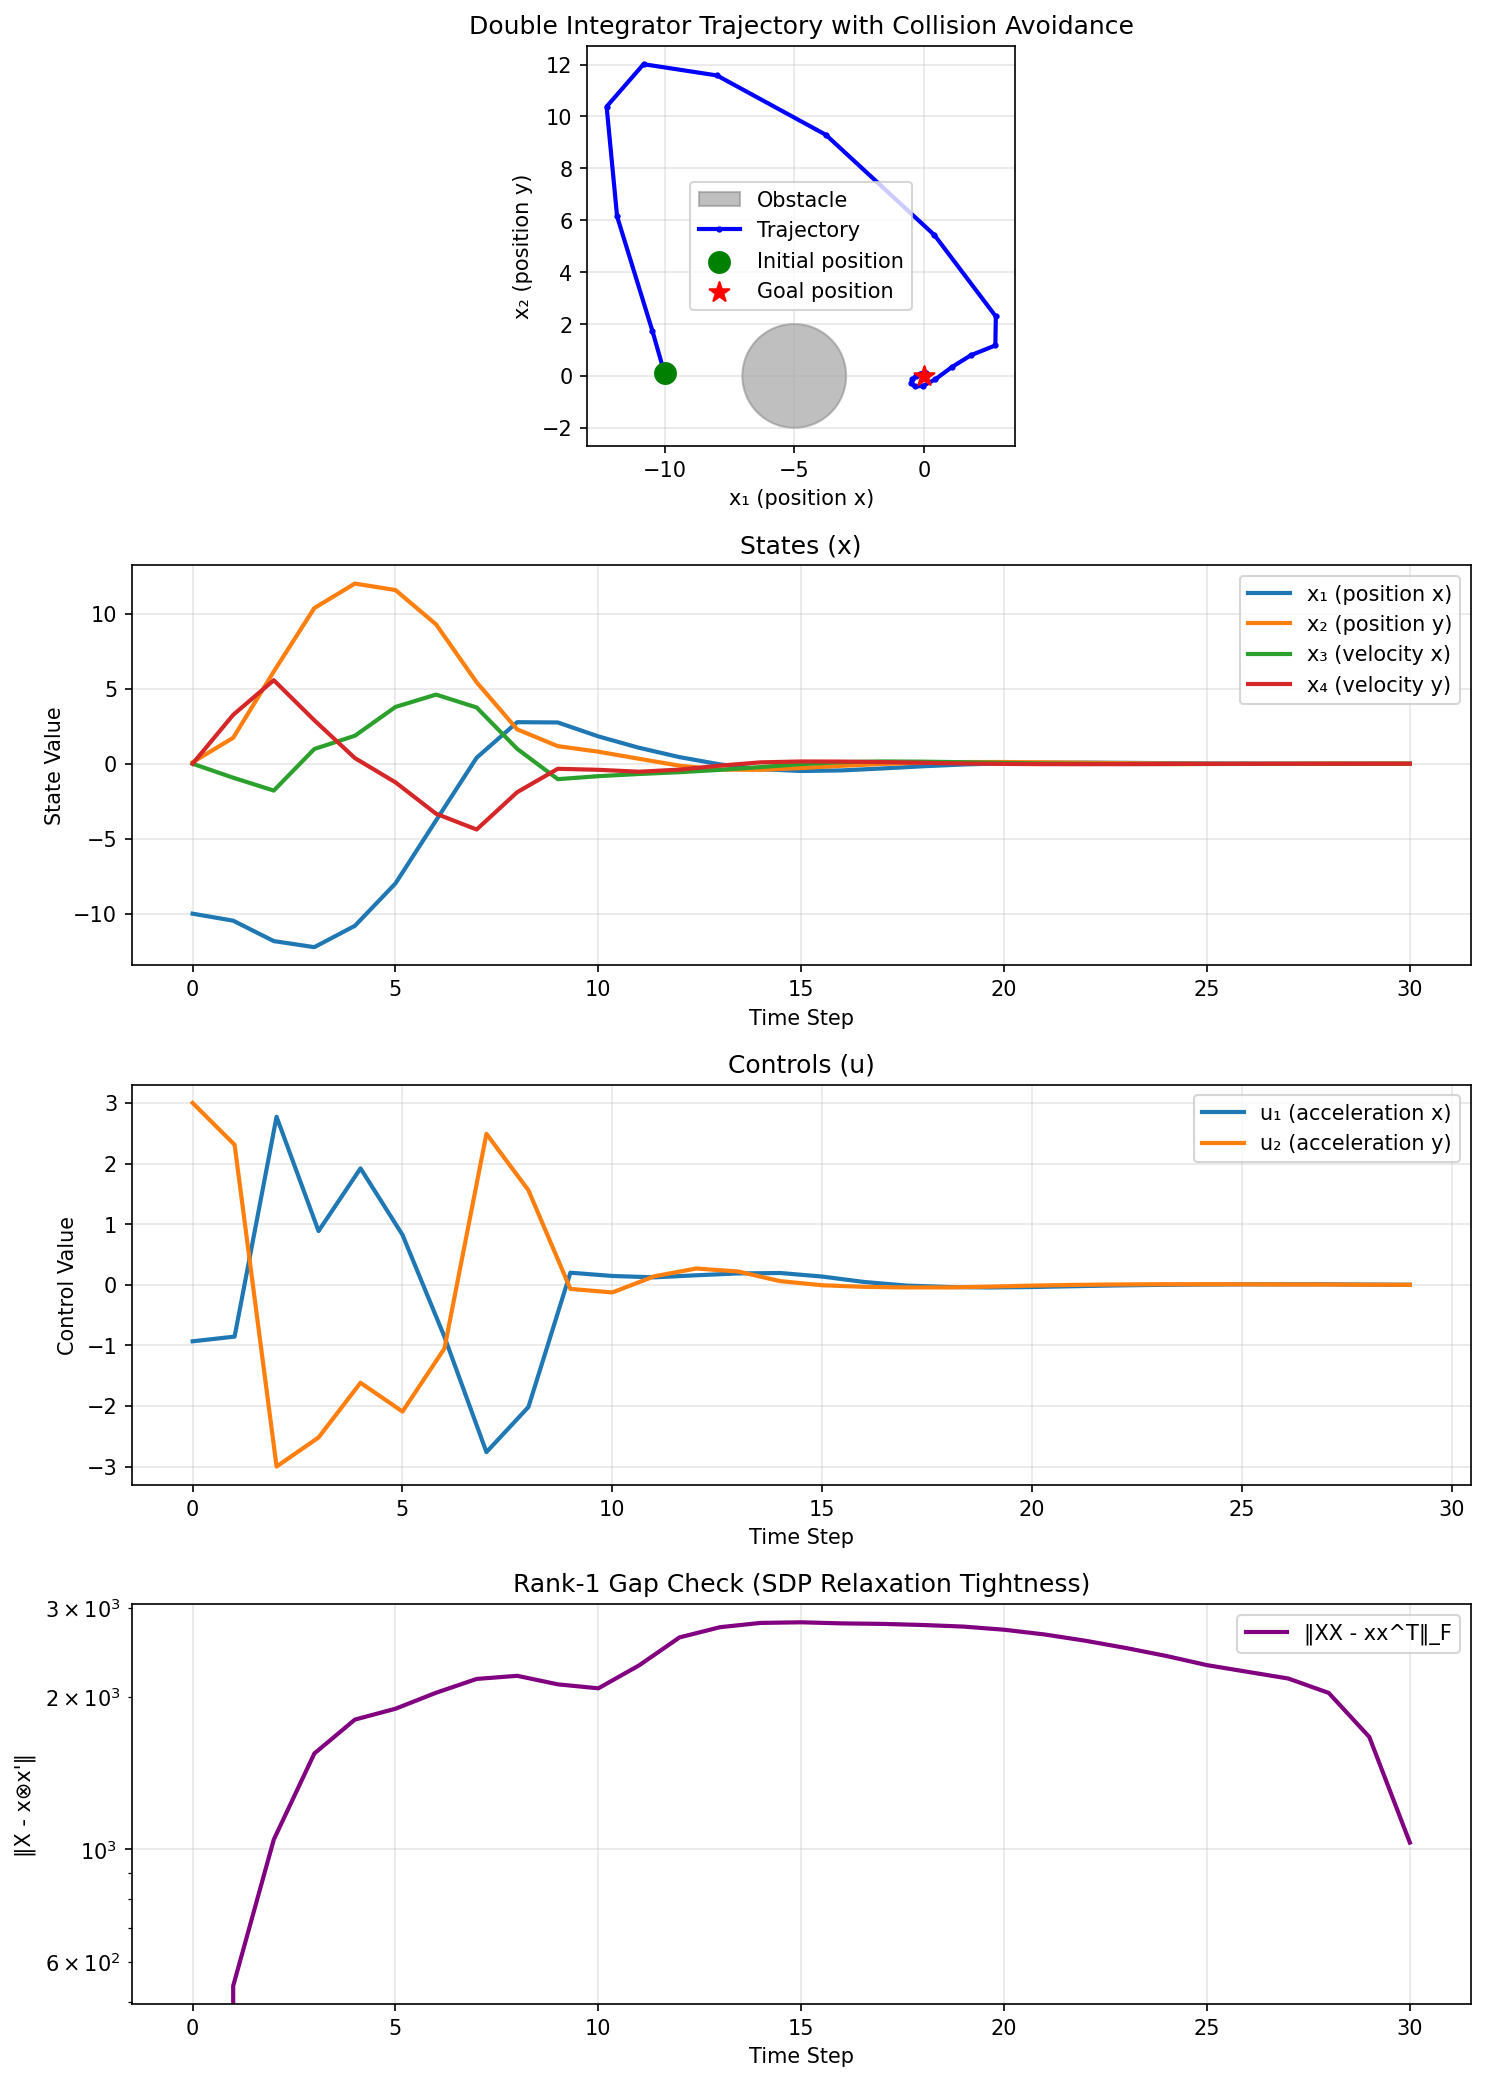
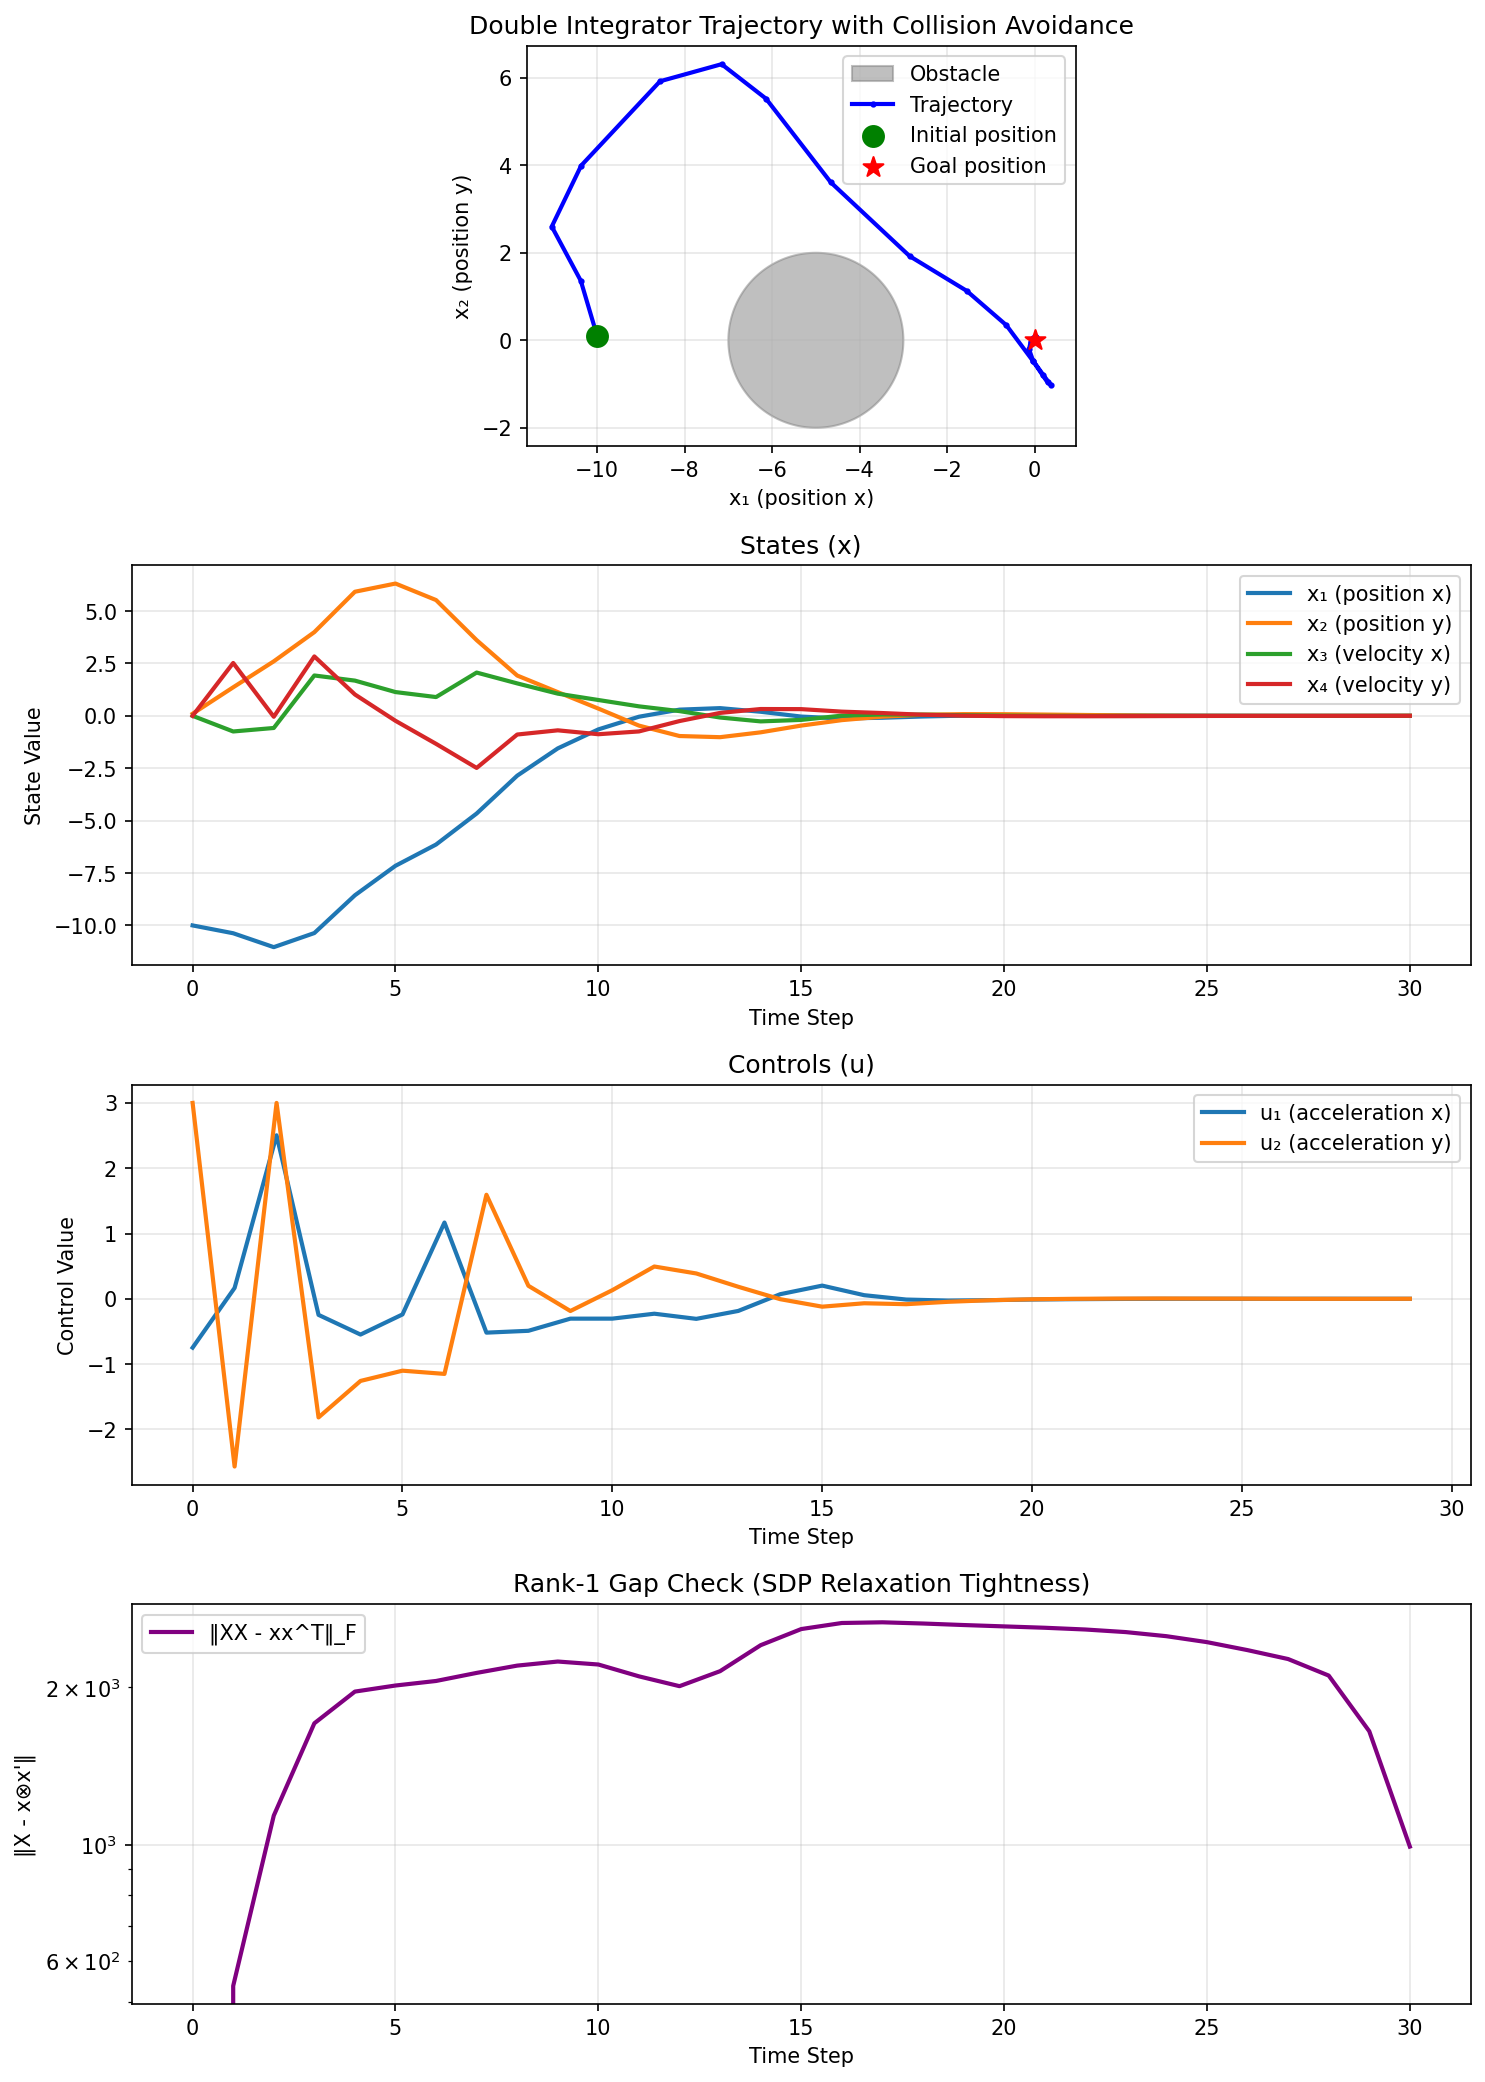
lifted cost

diff --git a/examples/tiny_psd_demo.cpp b/examples/tiny_psd_demo.cpp
@@ -86,9 +86,39 @@ extern "C" int main() {
 
     tiny_set_x0(solver, x0_lift);
 
-    // No linear reference terms
-    tiny_set_x_ref(solver, Mat::Zero(nxL, N));
-    tiny_set_u_ref(solver, Mat::Zero(nuL, N-1));
+    // Linear lift-costs (make demo closer to julia_sdp.jl):
+    // Add linear terms on diag(XX) and diag(UU) via Xref/Uref.
+    // Encoding: q = -(Q .* Xref), r = -(R .* Uref) in update_linear_cost.
+    {
+        const int nx0 = NX0, nu0 = NU0;
+        const int nxu_loc = nx0*nu0, nux_loc = nu0*nx0;
+        const int baseUU = nu0 + nxu_loc + nux_loc; // start index of vec(UU)
+        const tinytype q_xx = tinytype(0.8);  // linear weight on diag(XX)
+        const tinytype r_uu = tinytype(10.0); // linear weight on diag(UU)
+
+        Mat Xref = Mat::Zero(nxL, N);
+        Mat Uref = Mat::Zero(nuL, N-1);
+
+        // State: put q_xx on XX_ii by setting Xref(ii) = -q_xx / Q(ii)
+        for (int k = 0; k < N; ++k) {
+            for (int i = 0; i < nx0; ++i) {
+                int idx_xx_ii = nx0 + i*nx0 + i;
+                tinytype denom = solver->work->Q(idx_xx_ii);
+                if (denom != tinytype(0)) Xref(idx_xx_ii, k) = -q_xx / denom;
+            }
+        }
+
+        // Input: put r_uu on UU_jj via Uref
+        for (int k = 0; k < N-1; ++k) {
+            for (int j = 0; j < nu0; ++j) {
+                int idx_uu_jj = baseUU + j*nu0 + j;
+                tinytype denom = solver->work->R(idx_uu_jj);
+                if (denom != tinytype(0)) Uref(idx_uu_jj, k) = -r_uu / denom;
+            }
+        }
+        tiny_set_x_ref(solver, Xref);
+        tiny_set_u_ref(solver, Uref);
+    }
 
     // Pure-PSD variant: lifted disks (no TV tangents)
     const tinytype ox = -5.0, oy = 0.0, r = 2.0;
